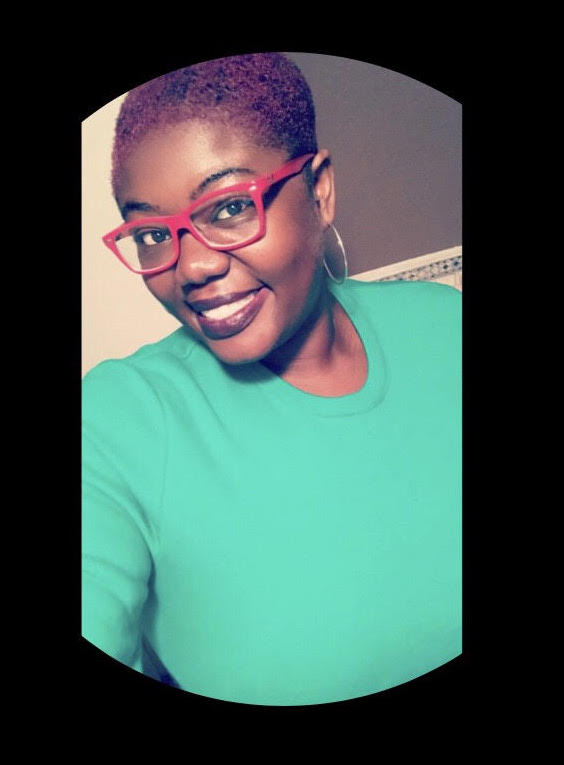
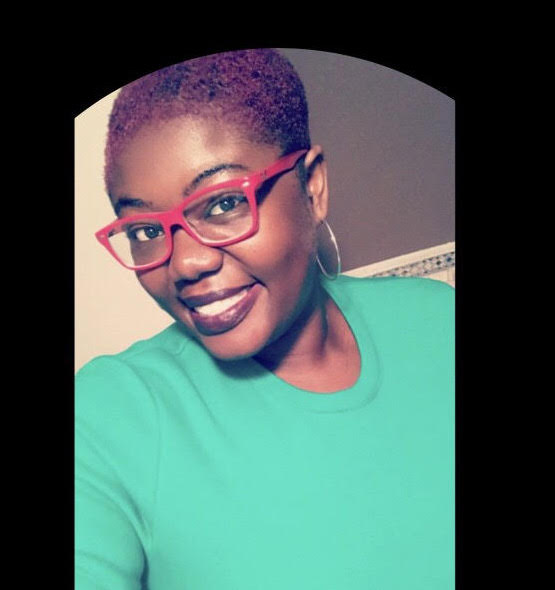
added more information to the profile and a transition to the 'full name' section

diff --git a/main.css b/main.css
@@ -7,9 +7,21 @@ body {
     font-family: 'Gill Sans', 'Gill Sans MT', Calibri, 'Trebuchet MS', sans-serif;
     text-align: end;
     height: 100px;
+    background: radial-gradient( white, black);
+    opacity:0;
+}
+.fullname:hover{
+    opacity:1;
+    transition: ease-in-out 2s;
+}
+.contact {
+    color: white;
+    font-family: 'Gill Sans', 'Gill Sans MT', Calibri, 'Trebuchet MS', sans-serif;
+    text-align: end;
+    height: 100px;
 }
 .container{
-    background-color: blue;
+    background-color: black;
     display: grid;
     /* defining how many columns there will be */
     grid-template-columns: 1fr 1fr 1fr;
@@ -19,25 +31,31 @@ body {
     
         "header header header"
         "nav blog blog"
+        "nav footer footer"
         "nav footer footer";
+        ;
     grid-gap: 10px;
 }
 .header{
     grid-area: header;
-    border: 3px solid;
+    border: 5px solid;
     text-align: center;
-    padding: 15px;}
+    padding: 15px;
+}
+#p1 {
+    color: aliceblue;
+}
 .nav{
     grid-area: nav;
-    border: white solid;
-    height: 600px;
+    border: solid;
+    height: 620px;
 }
-#id {
-    height: 500px;
-    width: 200px;
-
-
+#pic {
+    height: 620px;
+    margin-left: 5px;
+    width: 500px;
 }
+
 .blog{
     grid-area: blog;
     text-decoration: none;
@@ -48,6 +66,10 @@ body {
     grid-area: footer;
     border: solid;
     text-decoration: none;
+    overflow: scroll;
+}
+#resume {
+    margin-left: 170px;
 }
 a {
     text-decoration: none;

diff --git a/index pages/index.html b/index pages/index.html
@@ -9,8 +9,11 @@
 </head>
 <body>
 
- <div class="fullname"> <h1> BRITTANY    C.     LEWIS </h1>
-       <h5 class="fullname"> 202-365-6034 || B.clewis3289@gmail.com  </h5>
+ <div class="fullname"> 
+
+        <h1> BRITTANY    C.     LEWIS </h1>
+
+        <h5 class="contant"> 202-365-6034 || B.clewis3289@gmail.com  </h5>
 
 </div>
 
@@ -29,9 +32,14 @@
             
             </p> 
     </div>
-    <div class="nav"> <img id="pic" src="../unnamed.jpg" alt="Picture of Me"> </div>
-    <div class="blog"> Resume </div>
-    <div class="footer"> <a href="www.linkedin.com/in/brittfromit"> LinkedIn </a> </div>
+    <div class="nav"> <img id="pic" src="../britt.jpg" alt="Picture of Me"> </div>
+    <div class="blog"> <a href="https://www.linkedin.com/in/brittfromit/"> LinkedIn </a> </div>
+    
+    <div class="footer"> 
+        
+        <img id="resume" src="../BCLRESUME.png">
+    
+    </div>
 
 
 
